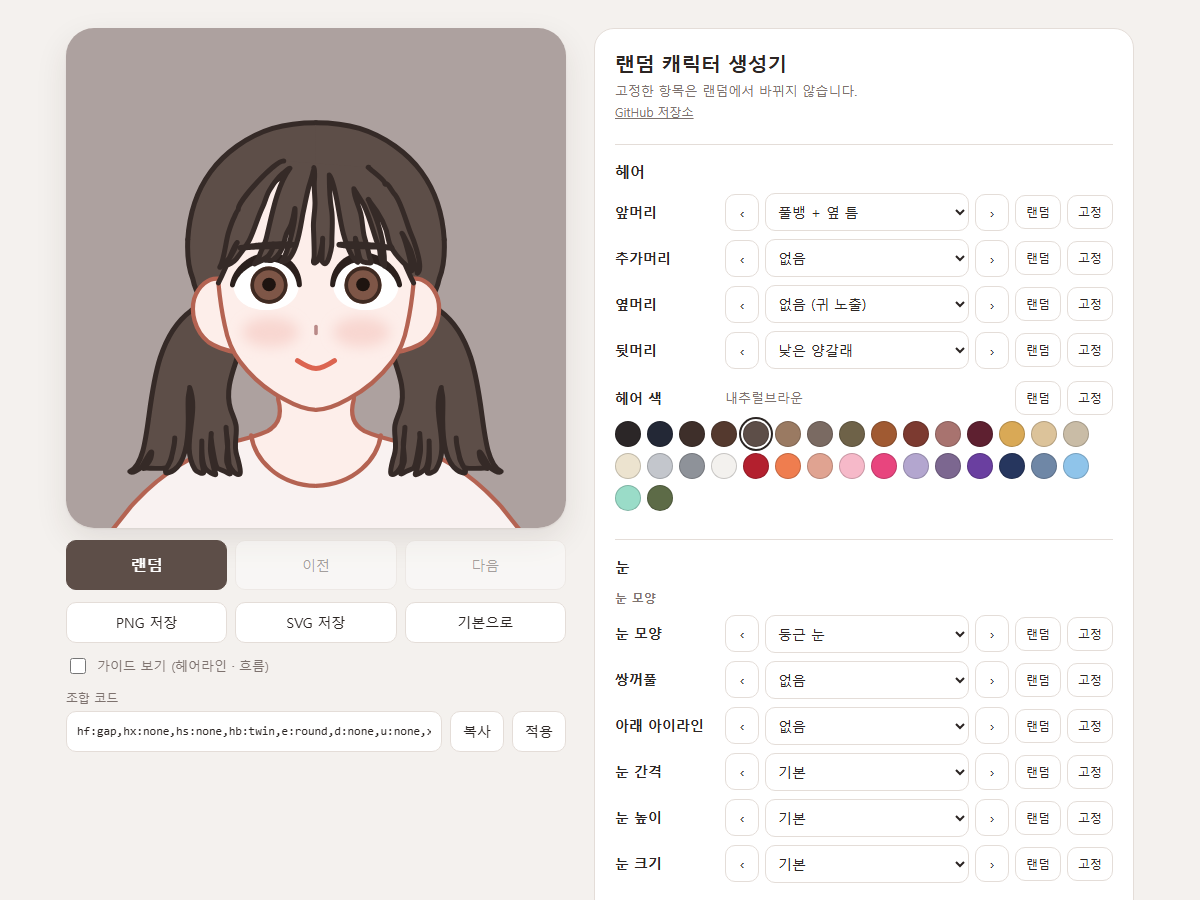
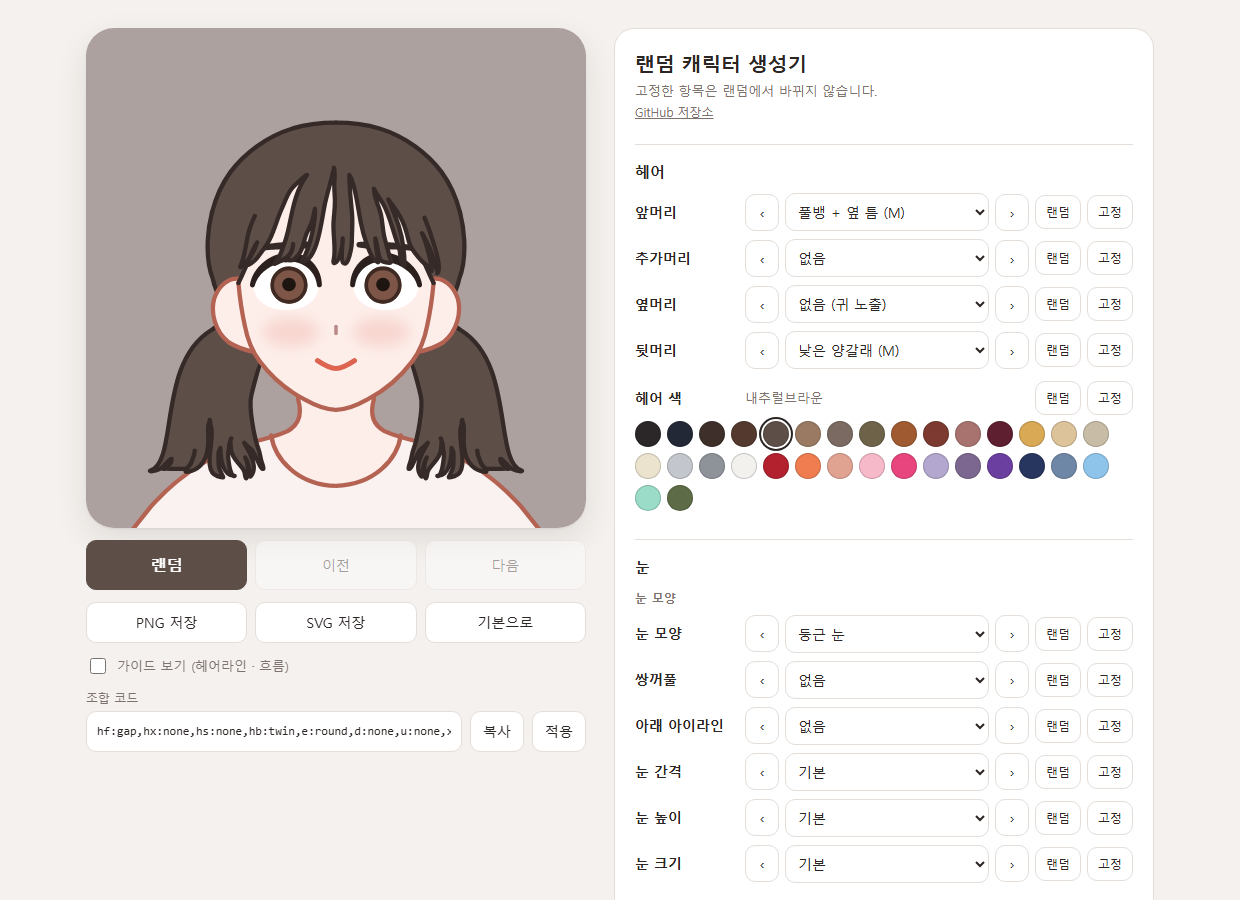
Lower lashes shorter (6 -> 4); README screenshots refreshed

diff --git a/js/core.js b/js/core.js
@@ -447,7 +447,7 @@
 
   // 아래 속눈썹: 전부 같은 방향(아래 + 살짝 바깥)으로 그어서 끝이 모이거나 벌어지지 않게 한다
   function lowLashes(p, o, c) {
-    var L = o.len || 6, end = along(p, 0), bx = end.out[0] * 0.45, by = 1, bl = Math.hypot(bx, by), R = o.radial != null ? o.radial : 0.35;
+    var L = o.len || 4, end = along(p, 0), bx = end.out[0] * 0.45, by = 1, bl = Math.hypot(bx, by), R = o.radial != null ? o.radial : 0.35;
     bx /= bl; by /= bl;
     return spread(p, o, 13, 0.28).map(function (f) {
       var q = along(p, f).q, rx = q[0] - c[0], ry = q[1] - c[1], rl = Math.hypot(rx, ry) || 1;

diff --git a/CLAUDE.md b/CLAUDE.md
@@ -99,7 +99,7 @@ samples/                    확인용 캡처 모음 (없어도 됨)
 현재 눈 디테일 수치(바꾸려면 `core.js` 또는 각 `_parts.json`):
 - 쌍꺼풀: 윗라인을 따라 눈머리 쪽부터 2/3, 피부 선 색, 굵기 5, 투명도 50%.
 - 위 속눈썹: 바깥 눈꼬리 쪽 1/3 지점 중심, 1·3·5개, 간격 14px 고정, 굵기 5, 살짝 휘고 바깥으로 누움. 아래로 향하는 변형(1·3·5개)도 있음.
-- 아래 속눈썹: 흰자 아래 윤곽 기준(노란 선이 아님), 3·5·7개, 간격 13px 고정, 길이 6, 눈에서 5 띄워 시작, 굵기 4(2026-11-13: 7→5, 5→4).
+- 아래 속눈썹: 흰자 아래 윤곽 기준(노란 선이 아님), 3·5·7개, 간격 13px 고정, 길이 4, 눈에서 5 띄워 시작, 굵기 4(2026-11-13: 길이 6→4, 띄움 7→5, 굵기 5→4).
 - 속눈썹 각도에는 눈 중심에서 퍼지는 방향이 조금(0.35) 섞여 있다.
 - 아래 아이라인: 검정, 기본 꺼짐. 애교살: 반투명 분홍 면. 다크서클: 번지는 보라 갈색.
 
